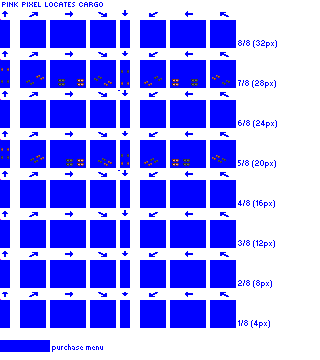
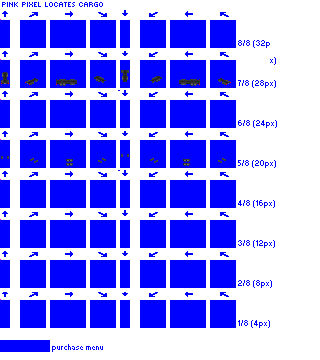
Codechange: trucks are composited with cabs, bodies, chassis

diff --git a/src/pixel_generator/gestalts/truck.py b/src/pixel_generator/gestalts/truck.py
@@ -26,7 +26,20 @@ sc_mask_out_template_guides = PixaSequenceCollection(
     }
 )
 
-def sc_pass_cab_farside(truck_length):
+def sc_chassis(chassis_floorplan_start_y):
+    chassis_loader = PixaImageLoader(mask=(0, 226, 255))
+    chassis_path = os.path.join(currentdir, 'input','trucks_chassis', 'tandem.png')
+
+    crop_start_y = chassis_floorplan_start_y
+    crop_end_y = chassis_floorplan_start_y + common.SPRITEROW_HEIGHT
+    crop_box = (0, crop_start_y, common.BODY_SPRITE_WIDTH, crop_end_y)
+
+    chassis = chassis_loader.make_points(chassis_path, crop_box, origin=(0, 0))
+    return PixaSequenceCollection(
+        sequences = {226: PixaSequence(points = chassis, transforms = [PixaShiftXY(0, -9)])}
+    )
+
+def sc_cab_farside(truck_length):
     return PixaSequenceCollection(
         sequences = {
             191: PixaSequence(points = cab_sprites['1'], transforms = [PixaShiftXY(*common.get_cab_offsets(1, truck_length))]),
@@ -37,7 +50,7 @@ def sc_pass_cab_farside(truck_length):
         }
     )
 
-def sc_pass_cab_nearside(truck_length):
+def sc_cab_nearside(truck_length):
     return PixaSequenceCollection(
         sequences = {
             188: PixaSequence(points = cab_sprites['4'], transforms = [PixaShiftXY(*common.get_cab_offsets(4, truck_length))]),
@@ -46,18 +59,18 @@ def sc_pass_cab_nearside(truck_length):
         }
     )
 
-def get_body(body_path, row_num, truck_length):
+def sc_body(body_path, row_num, truck_length):
     body_loader = PixaImageLoader(mask=(0,255))
 
     body_sprites = {}
     for spritenum in ('1', '2', '3', '4', '5', '6', '7', '8'):
-        # this will need more thought to handle getting the correct row for load sprites
+        # crops out the body sprite for each angle, appropriate to the required load state
         crop_start_x = common.get_standard_crop(spritenum)[0][0]
         crop_end_x = common.get_standard_crop(spritenum)[1][0]
-        #crop_start_y = (row_num) * common.SPRITEROW_HEIGHT
-        crop_start_y = FLOORPLAN_START_Y + common.get_standard_crop(spritenum)[0][1]
-        #crop_end_y = crop_start_y + common.SPRITEROW_HEIGHT
-        crop_end_y = FLOORPLAN_START_Y + common.get_standard_crop(spritenum)[1][1]
+        row_offset_y = (row_num) * common.SPRITEROW_HEIGHT
+        crop_start_y = row_offset_y + FLOORPLAN_START_Y + common.get_standard_crop(spritenum)[0][1]
+        crop_end_y = row_offset_y + FLOORPLAN_START_Y + common.get_standard_crop(spritenum)[1][1]
+
         crop_box = (crop_start_x, crop_start_y, crop_end_x, crop_end_y)
         body_sprites[spritenum] = body_loader.make_points(body_path, crop_box, origin=(0, 0))
 
@@ -78,22 +91,22 @@ def get_body(body_path, row_num, truck_length):
 def generate(filename):
     gv = common.GestaltTruckVariation(filename)
     floorplan = common.get_gestalt_floorplan(gv, floorplan_filename)
-    spritesheet = common.make_spritesheet(floorplan, row_count=1)
+    spritesheet = common.make_spritesheet(floorplan, row_count=gv.num_load_states)
 
     spriterows = []
-    # spriterow holds data needed to render the row
-    # only one spriterow for tank trailers; only one load state needed
-    spriterow = {'height' : common.SPRITEROW_HEIGHT, 'floorplan' : floorplan}
-    # add n render passes to the spriterow (list controls render order, index 0 = first pass)
     #colourset = coloursets[gv.colourset_id]
-    row_num = 0 #hack
-    spriterow['render_passes'] = [
-        {'seq': sc_mask_out_template_guides, 'colourset' : None},
-        {'seq': sc_pass_cab_farside(gv.length), 'colourset' : None},
-        {'seq': get_body(gv.body_path, row_num, gv.length), 'colourset': None},
-        {'seq': sc_pass_cab_nearside(gv.length), 'colourset' : None},
-    ]
-    spriterows.append(spriterow)
+    # spriterow holds data needed to render the row
+    for row_num in range(gv.num_load_states):
+        spriterow = {'height' : common.SPRITEROW_HEIGHT, 'floorplan' : floorplan}
+        # add n render passes to the spriterow (list controls render order, index 0 = first pass)
+        spriterow['render_passes'] = [
+            {'seq': sc_mask_out_template_guides, 'colourset' : None},
+            {'seq': sc_chassis(gv.floorplan_start_y), 'colourset' : None},
+            {'seq': sc_cab_farside(gv.length), 'colourset' : None},
+            {'seq': sc_body(gv.body_path, row_num, gv.length), 'colourset': None},
+            {'seq': sc_cab_nearside(gv.length), 'colourset' : None},
+        ]
+        spriterows.append(spriterow)
 
     spritesheet.render(spriterows=spriterows)
     output_path = common.get_output_path(gv.filename + '.png')

diff --git a/src/pixel_generator/gestalts/common.py b/src/pixel_generator/gestalts/common.py
@@ -69,22 +69,26 @@ class GestaltTruckVariation:
         """
         self._parts = self.filename.split('-')
         self.chassis_type = self._parts[1]
-        self.body_type = self._parts[2]
-        self.length = self._parts[4]
         """
+        #self.body_type = self._parts[2]
+        #self.body_type = 'body_box-cc1-5_8'
+        self.body_type = 'body_tipping_4px-cc1-5_8-bulk-corn_yellow'
+        self.body_type = 'body_tank-silver-5_8'
+        self.body_type = 'body_flat-cc1-5_8-cargo_coils-grey_metal'
+        #self.length = self._parts[4]
         self.length = '7_8'
         self.floorplan_start_y = floorplan_start_y_per_length[self.length]
         """
         self.floorplan_filename = os.path.join('chassis_trailers', self.chassis_type + '.png')
         """
         #self.body_path = os.path.join(INTERMEDIATES_PATH, 'body_' + filename.split('body_')[1])
-        self.body_path = os.path.join(INTERMEDIATES_PATH, 'body_box-cc1-5_8.png')
-        """
+        self.body_path = os.path.join(INTERMEDIATES_PATH, self.body_type + '.png')
+
         # use partial matching as body_type strings can include extra gestalt subtype information
         for i in load_state_ranges:
             if i in self.body_type:
                 self.num_load_states = load_state_ranges[i]
-        """
+
 class Variation:
     def __init__(self, set_name, colourset, cargo, connection_type, length, body_subtype=''):
         self.spritesheets = []
@@ -192,10 +196,10 @@ standard_sprite_crops = {
 
 # x, y tuples of offsets for each cab angle; origin for each angle is bottom left corner of spritesheet blue box for that angle.
 cab_offsets = {
-    '7_8': ((1, -25), (13, -22), (25, -16), (13, -16), (1, -16), (2, -16), (3, -16), (2, -22)), # currently setup for 4_8 during dev, needs fix
+    '7_8': ((1, -25), (13, -22), (26, -16), (13, -16), (1, -16), (2, -16), (2, -16), (2, -22)), # currently setup for 4_8 during dev, needs fix
 }
 # x, y tuples of offsets for each body angle when compositing to trucks (unlikely to be used for trailers).
 truck_body_offsets = {
-    '7_8': ((0, -22), (-6, -25), (-8, -28), (-5, -30), (0, -29), (5, -30), (8, -28), (6, -25)),
+    '7_8': ((0, -22), (-6, -26), (-8, -28), (-4, -31), (0, -31), (4, -31), (8, -28), (6, -26)),
 }
 

diff --git a/src/pixel_generator/main.py b/src/pixel_generator/main.py
@@ -81,7 +81,10 @@ cargo_filenames = [
 ]
 
 temp_body_filenames = [
-    'body_box-cc1-5_8.png'
+    'body_box-cc1-5_8.png',
+    'body_tipping_4px-cc1-5_8-bulk-corn_yellow',
+    'body_tank-silver-5_8.png',
+    'body_flat-cc1-5_8-cargo_coils-grey_metal',
 ]
 # generate body filenames as dependencies from trailer filenames
 body_filenames = []
